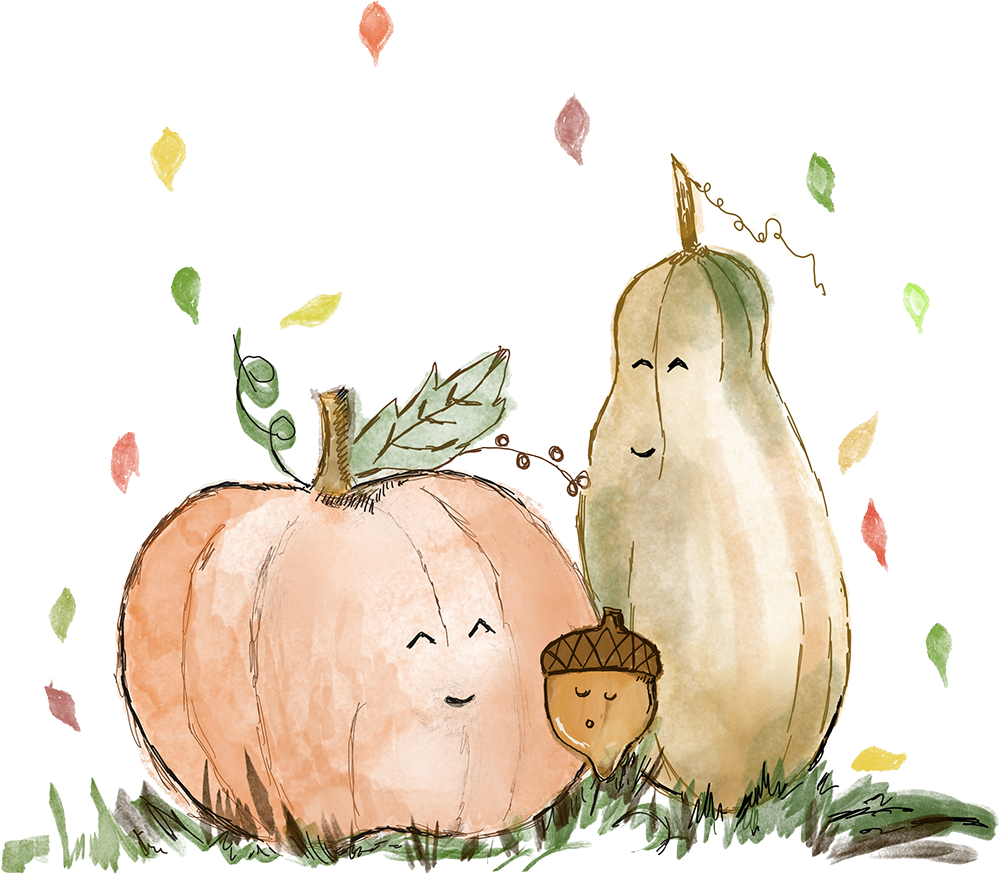
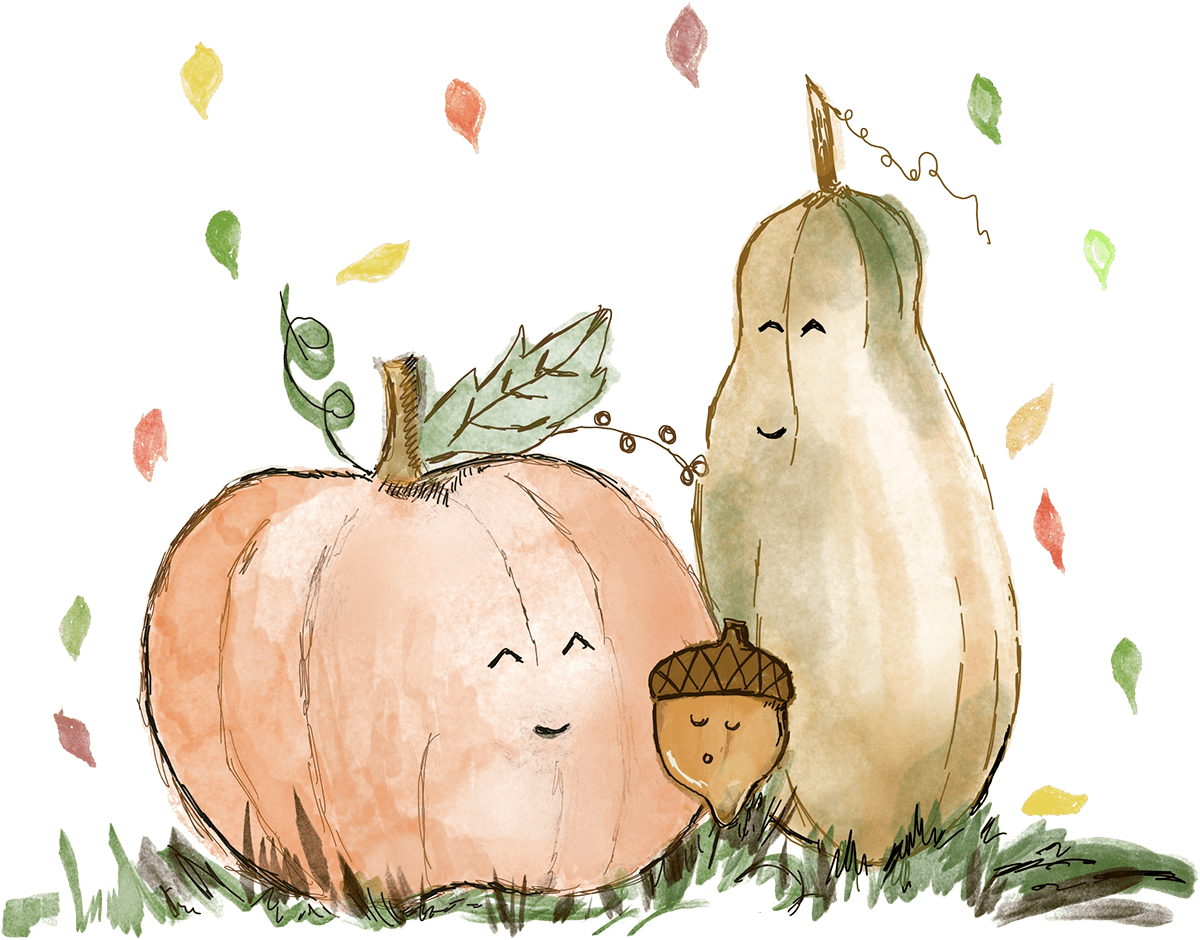
Optimize image; minimize fonts

diff --git a/pages/index.tsx b/pages/index.tsx
@@ -3,6 +3,7 @@ import { Rsvp } from "components/Rsvp";
 import type { NextPage } from "next";
 import Head from "next/head";
 import Image from "next/image";
+import babyAmoscatoTitle from "../public/baby-amoscato-title.png";
 import fallFamily from "../public/fall-family.png";
 import styles from "./Home.module.css";
 
@@ -17,19 +18,24 @@ const Home: NextPage = () => {
         />
         <link rel="icon" href="/favicon.ico" />
       </Head>
-
       <header className={styles.header}>
         <Image
           src={fallFamily}
           alt="Amoscato fall family drawing"
           priority
           width="600"
-          height="525"
+          height="470"
         />
-        <h2 className={styles.subtitle}>falling in love with</h2>
-        <h1 className={styles.title}>Baby Amoscato</h1>
+        <div className={styles.title}>
+          <Image
+            src={babyAmoscatoTitle}
+            alt="falling into love with Baby Amoscato"
+            priority
+            width="533"
+            height="137"
+          />
+        </div>
       </header>
-
       <main className={styles.main}>
         <Details />
         <Rsvp />

diff --git a/pages/_document.tsx b/pages/_document.tsx
@@ -1,4 +1,4 @@
-import Document, { Html, Head, Main, NextScript } from "next/document";
+import Document, { Head, Html, Main, NextScript } from "next/document";
 
 export default class MyDocument extends Document {
   render() {
@@ -11,9 +11,8 @@ export default class MyDocument extends Document {
             href="https://fonts.gstatic.com"
             crossOrigin="true"
           />
-          {/* TODO: scope fonts */}
           <link
-            href="https://fonts.googleapis.com/css2?family=Dawning+of+a+New+Day&family=Fredericka+the+Great&family=IBM+Plex+Serif:ital,wght@0,400;0,500;1,400&family=Playfair+Display:ital,wght@0,400;0,600;1,400&display=swap"
+            href="https://fonts.googleapis.com/css2?family=IBM+Plex+Serif:ital,wght@0,400;0,500;1,400&display=swap"
             rel="stylesheet"
           />
         </Head>

diff --git a/pages/Home.module.css b/pages/Home.module.css
@@ -1,21 +1,10 @@
 .header {
-  padding: 2rem 1rem;
+  padding: 3rem 1rem 2rem;
   text-align: center;
 }
 
-.subtitle {
-  font-family: "Dawning of a New Day", cursive;
-  font-size: 3em;
-  font-weight: normal;
-  line-height: 1.15;
-  margin: 0;
-}
-
 .title {
-  font-family: "Fredericka the Great", cursive;
-  font-size: 4.5em;
-  font-weight: normal;
-  margin: 0;
+  margin-top: 1.5rem;
 }
 
 .main {
@@ -23,12 +12,4 @@
   box-shadow: inset 0 0.1em 0.1em 0 rgb(13 13 13 / 10%);
   padding: 5rem 0;
   margin-top: 2rem;
-  /* max-width: 40rem; */
-}
-
-@media (max-width: 600px) {
-  .grid {
-    width: 100%;
-    flex-direction: column;
-  }
 }
